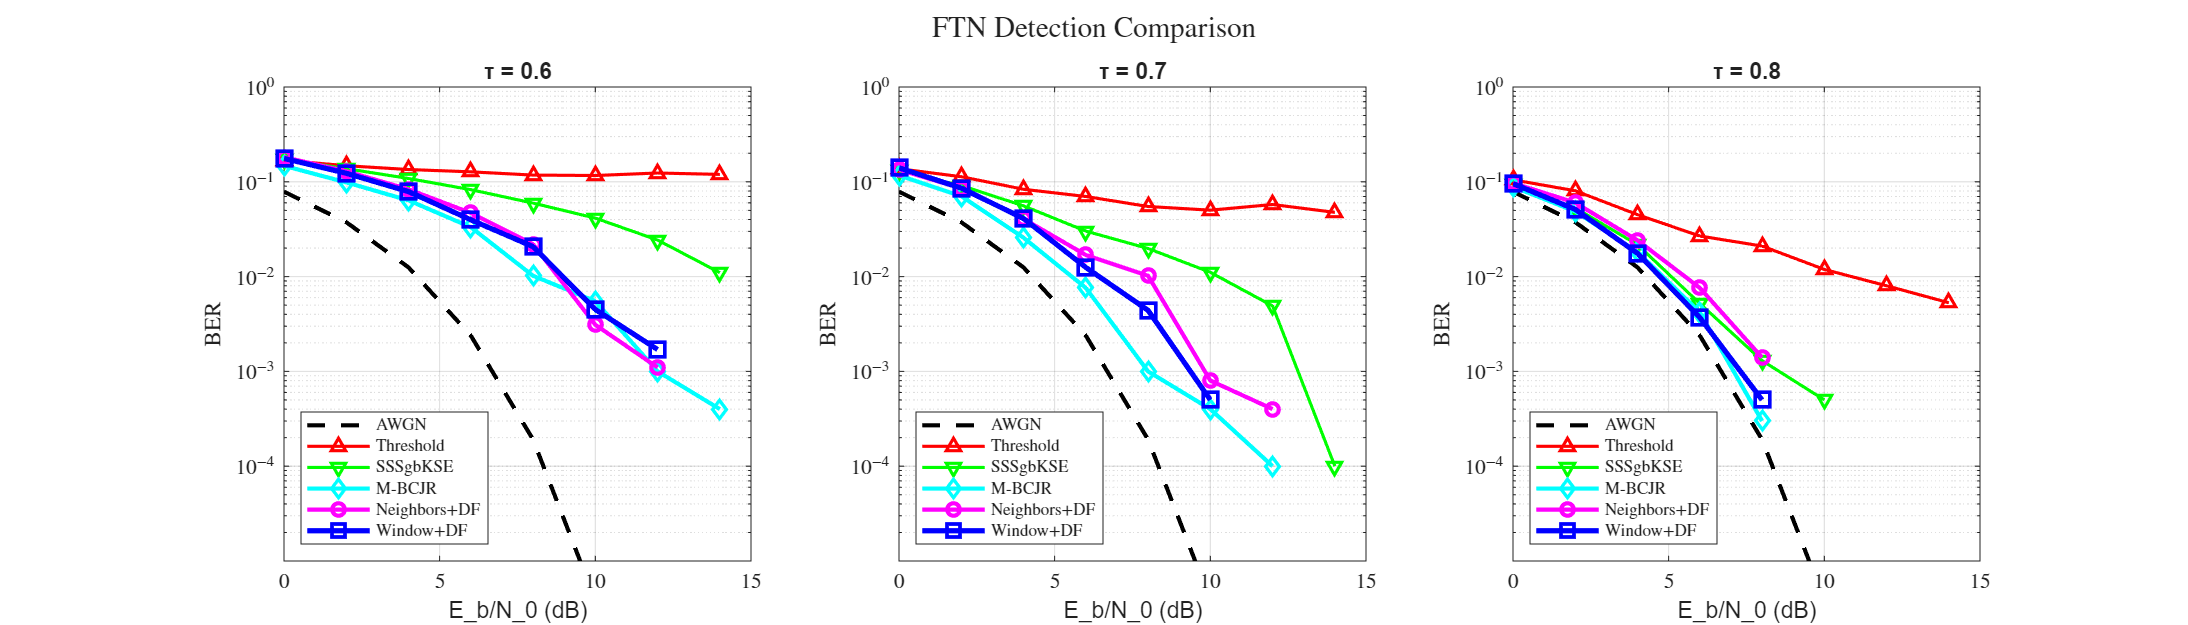
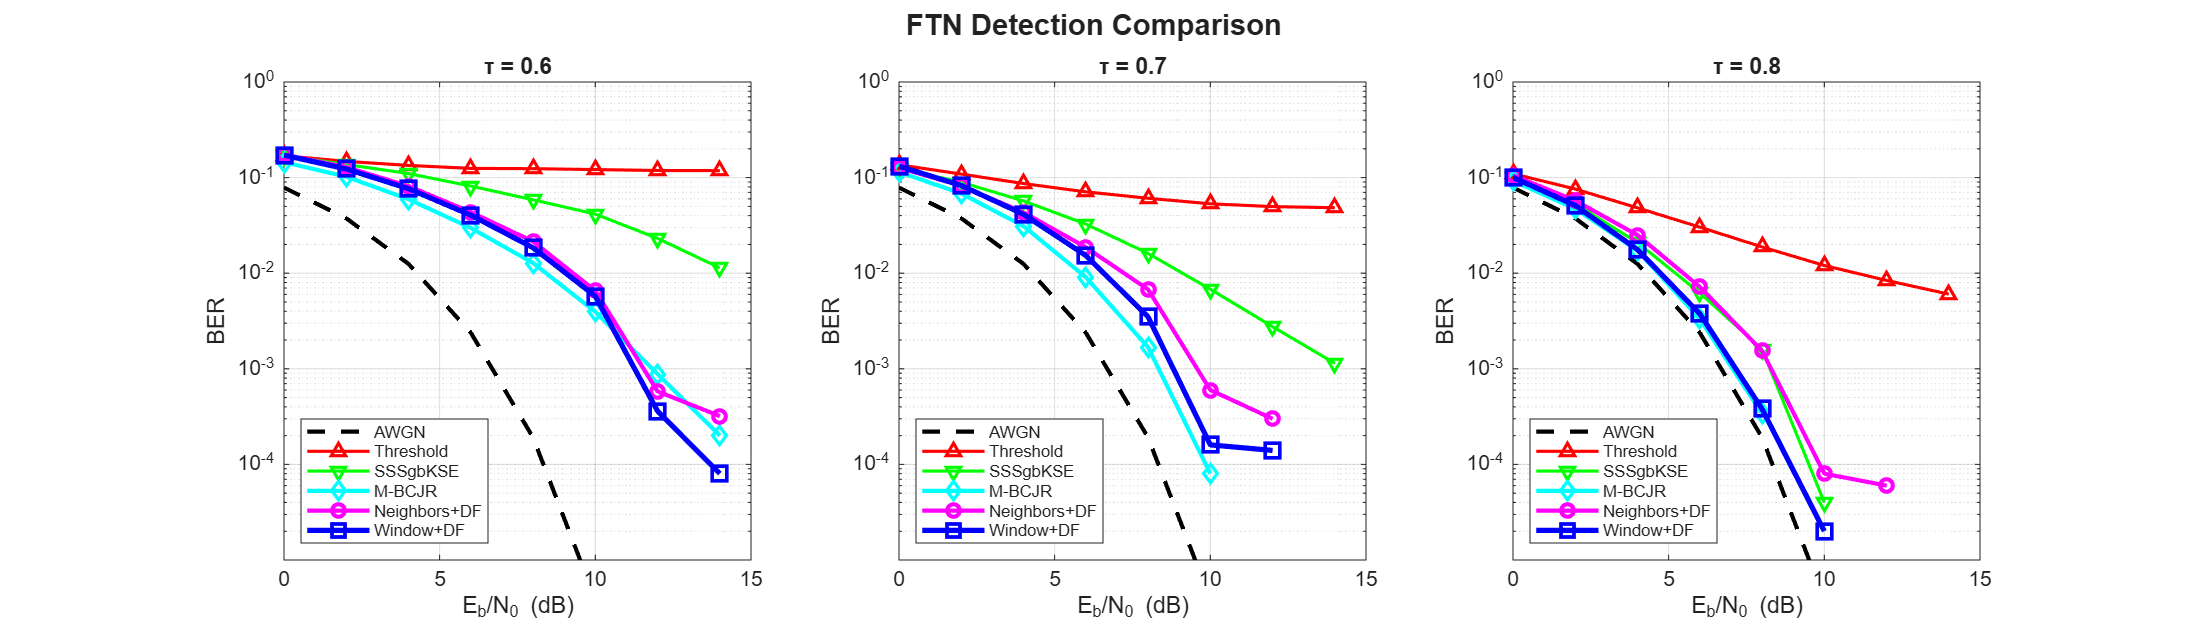
new tests

diff --git a/test_multi_tau.m b/test_multi_tau.m
@@ -6,7 +6,7 @@ clear; clc; close all;
 %% Parameters
 tau_values = [0.6, 0.7, 0.8];
 SNR_range = 0:2:14;
-N = 10000;
+N = 50000;
 min_errors = 50;  % For M-BCJR (slow)
 
 sps = 10; span = 6; beta = 0.3;
